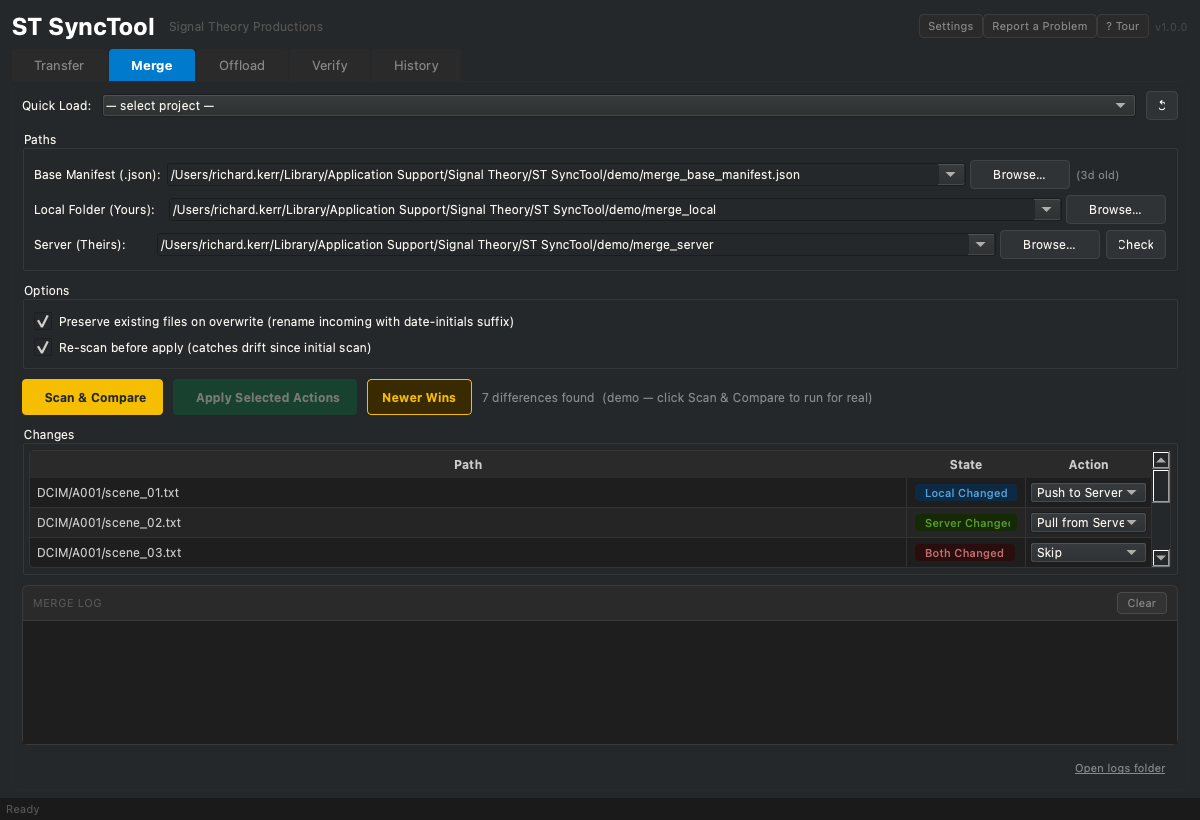
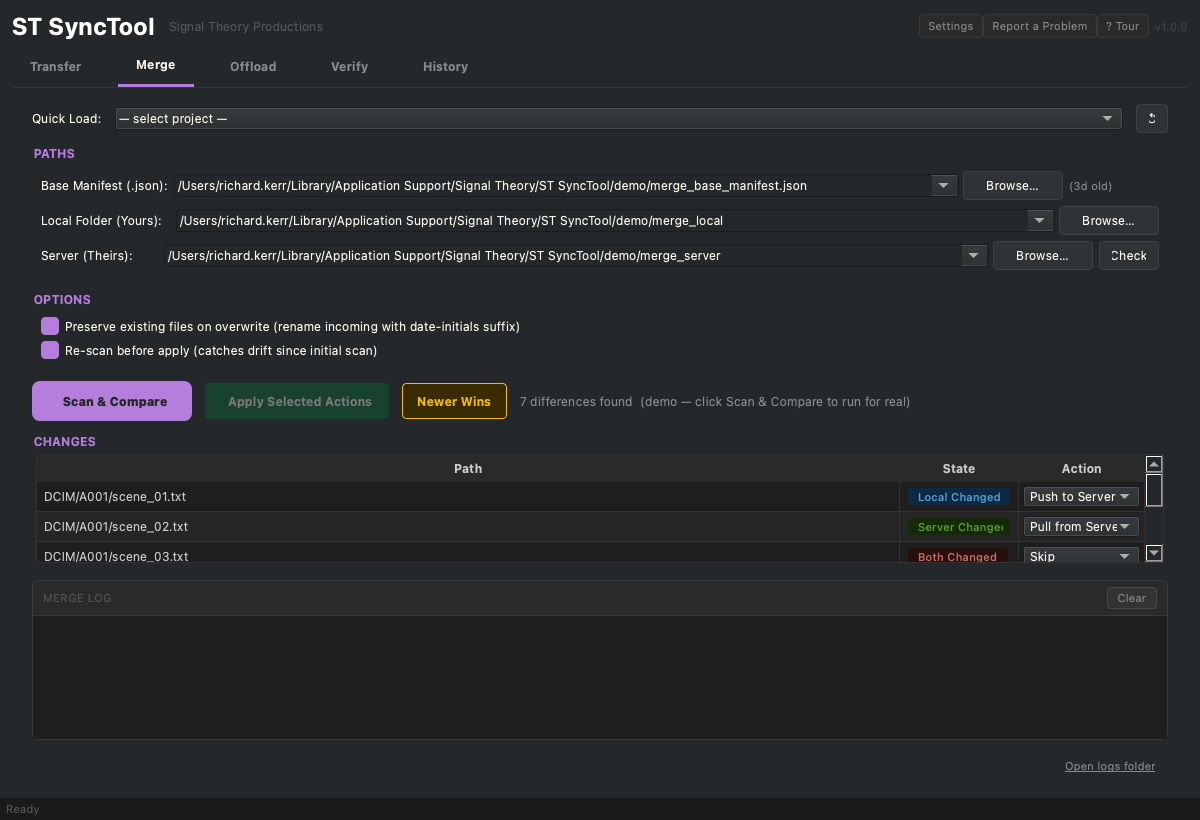
GUI refresh: roll per-tab accents across Merge/Offload/Verify/History
Applied theme.tab_stylesheet + uppercase section headers + #primaryBtn to all
four remaining tabs (Merge purple, Offload coral, Verify green, History gold),
matching the Transfer proof. Secondary +Add buttons demoted from gold to ghost.
GUI smoke 49 passed.

diff --git a/gui/offload_tab.py b/gui/offload_tab.py
@@ -596,9 +596,10 @@ class OffloadTab(QWidget):
     # ── UI construction ────────────────────────────────────────────────────
 
     def _build_ui(self):
+        self.setStyleSheet(theme.tab_stylesheet(theme.tab_accent("Offload")))
         root = QVBoxLayout(self)
-        root.setSpacing(10)
-        root.setContentsMargins(12, 12, 12, 8)
+        root.setSpacing(13)
+        root.setContentsMargins(20, 16, 20, 12)
 
         # Banner container — banners are inserted here dynamically
         self._banner_container = QWidget()
@@ -621,7 +622,7 @@ class OffloadTab(QWidget):
         root.addWidget(self._build_log_and_actions())
 
     def _build_source_panel(self) -> QGroupBox:
-        group = QGroupBox("Sources (read-only)")
+        group = QGroupBox("SOURCES (READ-ONLY)")
         layout = QVBoxLayout(group)
 
         scroll = QScrollArea()
@@ -637,7 +638,6 @@ class OffloadTab(QWidget):
         layout.addWidget(scroll)
 
         add_btn = QPushButton("+ Add Source")
-        add_btn.setStyleSheet(theme.primary_button_style())
         add_btn.clicked.connect(self._add_source)
         layout.addWidget(add_btn, alignment=Qt.AlignmentFlag.AlignLeft)
 
@@ -645,7 +645,7 @@ class OffloadTab(QWidget):
         return group
 
     def _build_dest_panel(self) -> QGroupBox:
-        group = QGroupBox("Destinations")
+        group = QGroupBox("DESTINATIONS")
         layout = QVBoxLayout(group)
 
         # Preset bar (Load / Save — Delete removed, Save overwrites)
@@ -677,7 +677,6 @@ class OffloadTab(QWidget):
         layout.addWidget(scroll)
 
         add_btn = QPushButton("+ Add Destination")
-        add_btn.setStyleSheet(theme.primary_button_style())
         add_btn.clicked.connect(self._add_dest)
         layout.addWidget(add_btn, alignment=Qt.AlignmentFlag.AlignLeft)
 
@@ -774,7 +773,7 @@ class OffloadTab(QWidget):
         return bar
 
     def _build_matrix_group(self) -> QGroupBox:
-        group = QGroupBox("Transfer Status")
+        group = QGroupBox("TRANSFER STATUS")
         layout = QVBoxLayout(group)
         self._matrix = StatusMatrixWidget()
         self._matrix.setMinimumHeight(90)
@@ -791,8 +790,8 @@ class OffloadTab(QWidget):
         # Action row above log panel
         btn_row = QHBoxLayout()
         self._start_btn = QPushButton("▶  Start Offload")
-        self._start_btn.setStyleSheet(theme.primary_button_style())
-        self._start_btn.setMinimumHeight(36)
+        self._start_btn.setObjectName("primaryBtn")
+        self._start_btn.setMinimumHeight(40)
         self._start_btn.clicked.connect(self._start_offload)
         btn_row.addWidget(self._start_btn)
 

diff --git a/gui/merge_tab.py b/gui/merge_tab.py
@@ -448,8 +448,10 @@ class MergeTab(QWidget):
     def _build_ui(self):
         """Orchestrates the MergeTab layout. Each section is built by a focused
         sub-builder that sets the relevant self.* attributes."""
+        self.setStyleSheet(theme.tab_stylesheet(theme.tab_accent("Merge")))
         root = QVBoxLayout(self)
-        root.setSpacing(10)
+        root.setSpacing(13)
+        root.setContentsMargins(20, 16, 20, 12)
         root.addLayout(self._build_project_row())
         root.addWidget(self._build_paths_group())
         root.addWidget(self._build_options_group())
@@ -481,7 +483,7 @@ class MergeTab(QWidget):
 
     def _build_paths_group(self) -> QGroupBox:
         """Base manifest, local folder, and server path inputs."""
-        group = QGroupBox("Paths")
+        group = QGroupBox("PATHS")
         layout = QVBoxLayout(group)
 
         brow = QHBoxLayout()
@@ -524,7 +526,7 @@ class MergeTab(QWidget):
 
     def _build_options_group(self) -> QGroupBox:
         """Preserve-on-overwrite and re-scan checkboxes."""
-        group = QGroupBox("Options")
+        group = QGroupBox("OPTIONS")
         layout = QVBoxLayout(group)
         self.preserve_chk = QCheckBox(
             "Preserve existing files on overwrite (rename incoming with date-initials suffix)"
@@ -543,8 +545,8 @@ class MergeTab(QWidget):
         btn_row = QHBoxLayout()
 
         self.scan_btn = QPushButton("  Scan && Compare")
-        self.scan_btn.setFixedHeight(36)
-        self.scan_btn.setStyleSheet(theme.primary_button_style())
+        self.scan_btn.setObjectName("primaryBtn")
+        self.scan_btn.setFixedHeight(40)
         self.scan_btn.clicked.connect(self._run_scan)
 
         self.apply_btn = QPushButton("  Apply Selected Actions")
@@ -596,7 +598,7 @@ class MergeTab(QWidget):
 
     def _build_diff_group(self) -> QGroupBox:
         """Changes group box containing the summary header and the diff table."""
-        group = QGroupBox("Changes")
+        group = QGroupBox("CHANGES")
         layout = QVBoxLayout(group)
         layout.setContentsMargins(4, 4, 4, 4)
         # M2 summary header: "3 conflicts need review · 44 files will sync

diff --git a/gui/verify_tab.py b/gui/verify_tab.py
@@ -88,11 +88,13 @@ class VerifyTab(QWidget):
         self._build_ui()
 
     def _build_ui(self):
+        self.setStyleSheet(theme.tab_stylesheet(theme.tab_accent("Verify")))
         root = QVBoxLayout(self)
-        root.setSpacing(10)
+        root.setSpacing(14)
+        root.setContentsMargins(20, 16, 20, 12)
 
         # ── Verify settings ──────────────────────────────────────
-        input_group = QGroupBox("Verify Settings")
+        input_group = QGroupBox("VERIFY SETTINGS")
         ig = QVBoxLayout(input_group)
 
         frow = QHBoxLayout()
@@ -133,8 +135,8 @@ class VerifyTab(QWidget):
         # ── Action row ───────────────────────────────────────────
         btn_row = QHBoxLayout()
         self.verify_btn = QPushButton("🛡  Run Verification")
-        self.verify_btn.setFixedHeight(36)
-        self.verify_btn.setStyleSheet(theme.primary_button_style())
+        self.verify_btn.setObjectName("primaryBtn")
+        self.verify_btn.setFixedHeight(40)
         self.verify_btn.clicked.connect(self._run_verify)
         btn_row.addWidget(self.verify_btn)
 
@@ -160,7 +162,7 @@ class VerifyTab(QWidget):
         root.addLayout(btn_row)
 
         # ── Summary cards ────────────────────────────────────────
-        summary_group = QGroupBox("Summary")
+        summary_group = QGroupBox("RESULTS")
         sg = QHBoxLayout(summary_group)
         sg.setSpacing(10)
 

diff --git a/gui/history_tab.py b/gui/history_tab.py
@@ -48,7 +48,10 @@ class HistoryTab(QWidget):
 
     # ── UI ──────────────────────────────────────────────────────────────────
     def _build_ui(self):
+        self.setStyleSheet(theme.tab_stylesheet(theme.tab_accent("History")))
         root = QVBoxLayout(self)
+        root.setContentsMargins(20, 16, 20, 12)
+        root.setSpacing(12)
 
         filt = QHBoxLayout()
         self._filter_combos = {}
